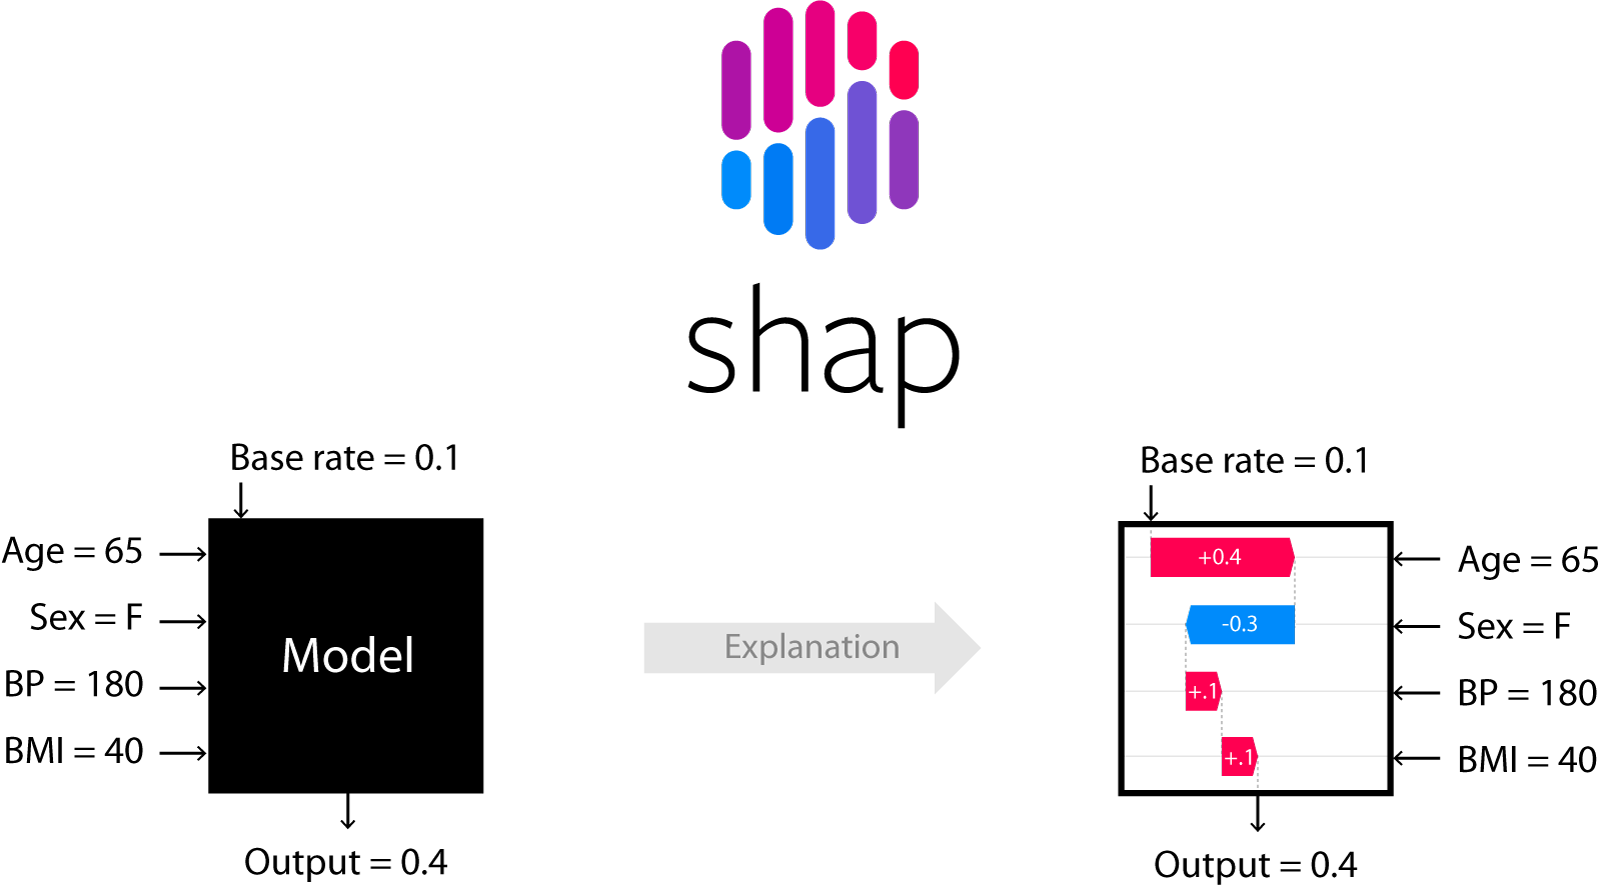
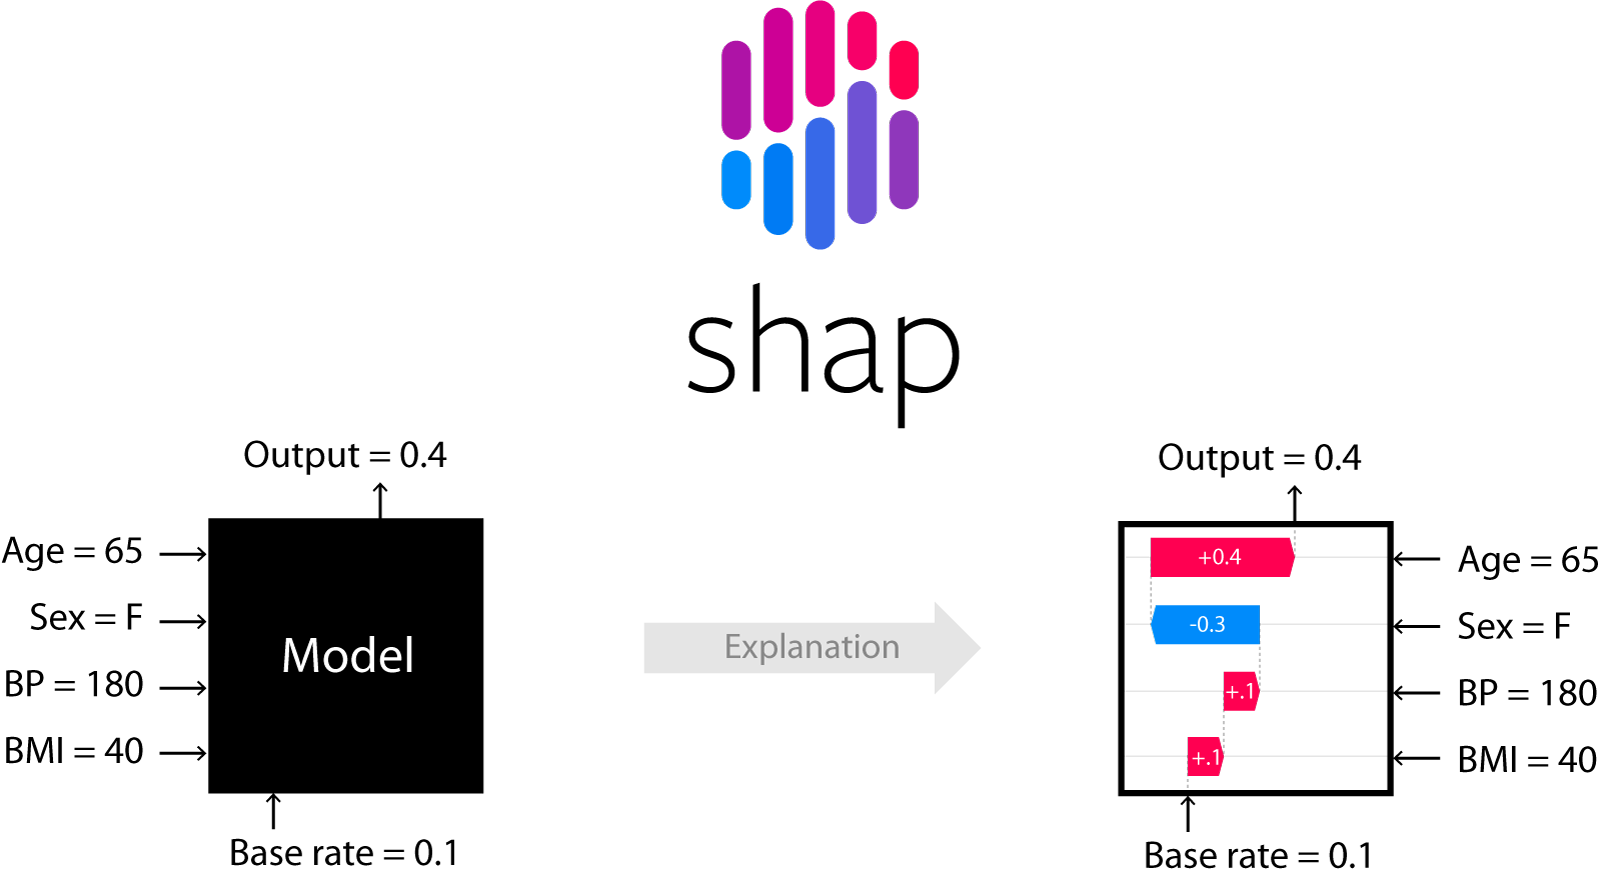
New improved waterfall plot

diff --git a/shap/plots/waterfall.py b/shap/plots/waterfall.py
@@ -1,11 +1,37 @@
 import numpy as np
 import matplotlib.pyplot as pl
 from shap.plots import labels
-from shap.common import safe_isinstance
+from shap.common import safe_isinstance, pretty_num
 from . import colors
 
 
 def waterfall_plot(expected_value, shap_values, features=None, feature_names=None, max_display=10, show=True):
+    """ Plots an explantion of a single prediction as a waterfall.
+    
+    Parameters
+    ----------
+    expected_value : float
+        This is the reference value that the feature contributions start from. For SHAP values it should
+        be the value of explainer.expected_value.
+
+    shap_values : numpy.array
+        Matrix of SHAP values (# features) or (# samples x # features). If this is a 1D array then a single
+        force plot will be drawn, if it is a 2D array then a stacked force plot will be drawn.
+
+    features : numpy.array
+        Matrix of feature values (# features) or (# samples x # features). This provides the values of all the
+        features, and should be the same shape as the shap_values argument.
+
+    feature_names : list
+        List of feature names (# features).
+
+    max_display : str
+        The maximum number of features to plot.
+
+    show : bool
+        Whether matplotlib.pyplot.show() is called before returning. Setting this to False allows the plot
+        to be customized further after it has been created.
+    """
     
     # unwrap pandas series
     if safe_isinstance(features, "pandas.core.series.Series"):
@@ -46,27 +72,86 @@ def waterfall_plot(expected_value, shap_values, features=None, feature_names=Non
             neg_inds.append(rng[i])
             neg_widths.append(sval)
             neg_lefts.append(loc)
-        if num_individual != num_features or i + 1 < num_individual:
+        if num_individual != num_features or i + 4 < num_individual:
             pl.plot([loc, loc], [rng[i] -1 - 0.4, rng[i] + 0.4], color="#bbbbbb", linestyle="--", linewidth=0.5, zorder=-1)
         if features is None:
             yticklabels[rng[i]] = feature_names[order[i]]
         else:
-            yticklabels[rng[i]] = feature_names[order[i]] + " = " + str(features[order[i]])
-
+            yticklabels[rng[i]] = feature_names[order[i]] + " = " + pretty_num("%0.03f" % features[order[i]])
+    
     # add a last grouped feature to represent the impact of all the features we didn't show
     if num_features < len(shap_values):
         yticklabels[0] = "%d other features" % (len(shap_values) - num_features + 1)
         remaining_impact = expected_value - loc
         if remaining_impact < 0:
+            pos_inds.append(0)
+            pos_widths.append(remaining_impact)
+            pos_lefts.append(loc)
             c = colors.red_rgb
         else:
+            neg_inds.append(0)
+            neg_widths.append(-remaining_impact)
+            neg_lefts.append(loc + remaining_impact)
             c = colors.blue_rgb
-
-        pl.barh([0], [remaining_impact], left=loc, color=c)
     
-    # draw the bars
-    pl.barh(pos_inds, pos_widths, left=pos_lefts, color=colors.red_rgb)
-    pl.barh(neg_inds, neg_widths, left=neg_lefts, color=colors.blue_rgb)
+    # draw invisible bars just for sizing the axes
+    pl.barh(pos_inds, np.array(pos_widths)*1.001, left=pos_lefts, color=colors.red_rgb, alpha=0)
+    pl.barh(neg_inds, np.array(neg_widths)*1.001, left=neg_lefts, color=colors.blue_rgb, alpha=0)
+    
+    
+    head_length = 0.08
+    bar_width = 0.8
+    xlen = pl.xlim()[1] - pl.xlim()[0]
+    fig = pl.gcf()
+    ax = pl.gca()
+    xticks = ax.get_xticks()
+    bbox = ax.get_window_extent().transformed(fig.dpi_scale_trans.inverted())
+    width, height = bbox.width, bbox.height
+    bbox_to_xscale = xlen/width
+    hl_scaled = bbox_to_xscale * head_length
+    renderer = fig.canvas.get_renderer()
+    
+    # draw the positive arrows
+    for i in range(len(pos_inds)):
+        dist = pos_widths[i]
+        arrow_obj = pl.arrow(
+            pos_lefts[i], pos_inds[i], max(dist-hl_scaled, 0.000001), 0,
+            head_length=min(dist, hl_scaled),
+            color=colors.red_rgb, width=bar_width,
+            head_width=bar_width
+        )
+        
+        txt_obj = pl.text(
+            pos_lefts[i] + 0.5*dist, pos_inds[i], pretty_num('%+0.02f' % pos_widths[i]),
+            horizontalalignment='center', verticalalignment='center', color="white",
+            fontsize=12
+        )
+        text_bbox = txt_obj.get_window_extent(renderer=renderer)
+        arrow_bbox = arrow_obj.get_window_extent(renderer=renderer)
+        if text_bbox.width > arrow_bbox.width: 
+            txt_obj.remove()
+    
+    # draw the negative arrows
+    for i in range(len(neg_inds)):
+        dist = neg_widths[i]
+        
+        arrow_obj = pl.arrow(
+            neg_lefts[i], neg_inds[i], -max(-dist-hl_scaled, 0.000001), 0,
+            head_length=min(-dist, hl_scaled),
+            color=colors.blue_rgb, width=bar_width,
+            head_width=bar_width
+        )
+        
+        txt_obj = pl.text(
+            neg_lefts[i] + 0.5*dist, neg_inds[i], pretty_num('%+0.02f' % neg_widths[i]),
+            horizontalalignment='center', verticalalignment='center', color="white",
+            fontsize=12
+        )
+        text_bbox = txt_obj.get_window_extent(renderer=renderer)
+        arrow_bbox = arrow_obj.get_window_extent(renderer=renderer)
+        if text_bbox.width > arrow_bbox.width: 
+            txt_obj.remove()
+
     pl.yticks(range(num_features), yticklabels, fontsize=13)
     
     # put horizontal lines for each feature row
@@ -75,15 +160,58 @@ def waterfall_plot(expected_value, shap_values, features=None, feature_names=Non
     
     # mark the prior expected value and the model prediction
     pl.axvline(expected_value, 0, 1/num_features, color="#bbbbbb", linestyle="--", linewidth=0.5, zorder=-1)
-    pl.axvline(expected_value + shap_values.sum(), 0, 1, color="#bbbbbb", linestyle="--", linewidth=0.5, zorder=-1)
-
+    fx = expected_value + shap_values.sum()
+    pl.axvline(fx, 0, 1, color="#bbbbbb", linestyle="--", linewidth=0.5, zorder=-1)
+    
+    # clean up the main axis
     pl.gca().xaxis.set_ticks_position('bottom')
     pl.gca().yaxis.set_ticks_position('none')
     pl.gca().spines['right'].set_visible(False)
     pl.gca().spines['top'].set_visible(False)
     pl.gca().spines['left'].set_visible(False)
-    #pl.gca().tick_params(color=, labelcolor=axis_color)
-    pl.xlabel("Feature impact on the model output", fontsize=13)
+    pl.xlabel("Model output", fontsize=12)
+    
+    # remove the ticks that are closest to f(x) and E[f(X)]
+    xmin,xmax = ax.get_xlim()
+    xticks = ax.get_xticks()
+    xticks = list(xticks)
+    min_ind = 0
+    min_diff = 1e10
+    for i in range(len(xticks)):
+        v = abs(xticks[i] - expected_value)
+        if v < min_diff:
+            min_diff = v
+            min_ind = i
+    xticks.pop(min_ind)
+    min_ind = 0
+    min_diff = 1e10
+    for i in range(len(xticks)):
+        v = abs(xticks[i] - fx)
+        if v < min_diff:
+            min_diff = v
+            min_ind = i
+    xticks.pop(min_ind)
+    ax.set_xticks(xticks)
+    ax.tick_params(labelsize=13)
+    ax.set_xlim(xmin,xmax)
 
+    # draw the f(x) and E[f(X)] ticks
+    ax2=ax.twiny()
+    ax2.set_xlim(xmin,xmax)
+    ax2.set_xticks([fx, expected_value])
+    ax2.set_xticklabels([pretty_num("%0.03f" % fx), "$E[f(X)]$"], fontsize=12)
+    ax2.spines['right'].set_visible(False)
+    ax2.spines['top'].set_visible(False)
+    ax2.spines['left'].set_visible(False)
+
+    ax3=ax2.twiny()
+    ax3.set_xlim(xmin,xmax)
+    ax3.set_xticks([expected_value + shap_values.sum()])
+    ax3.set_xticklabels(["$f(x)$"], fontsize=12)
+    ax3.spines['right'].set_visible(False)
+    ax3.spines['top'].set_visible(False)
+    ax3.spines['left'].set_visible(False)
+    
+    
     if show:
         pl.show()
